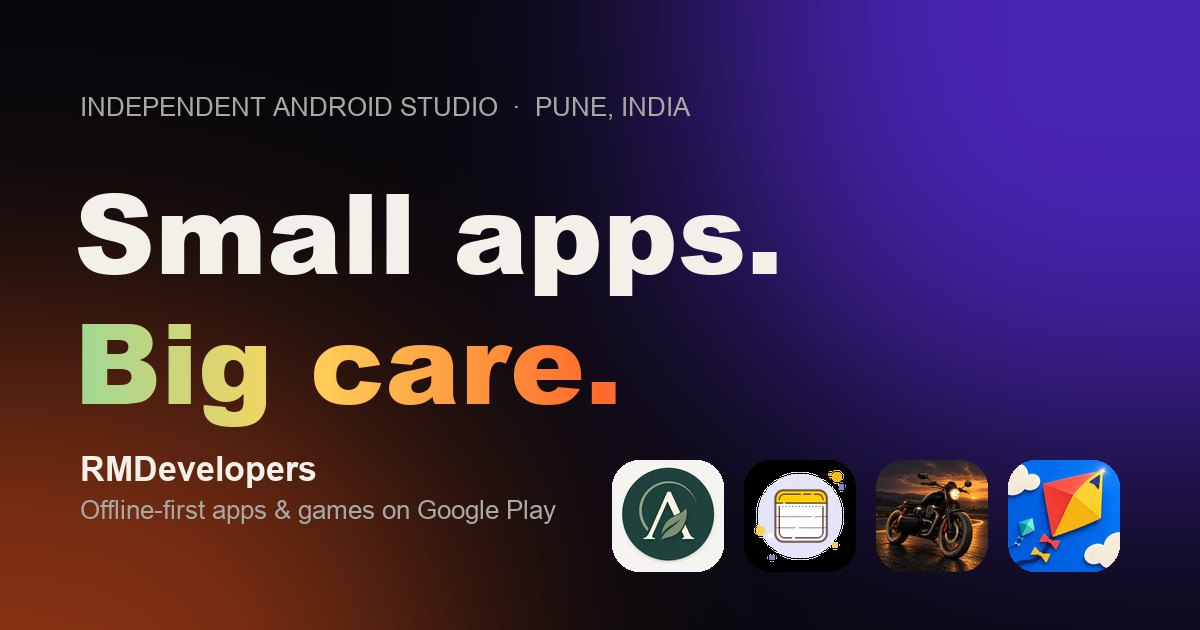
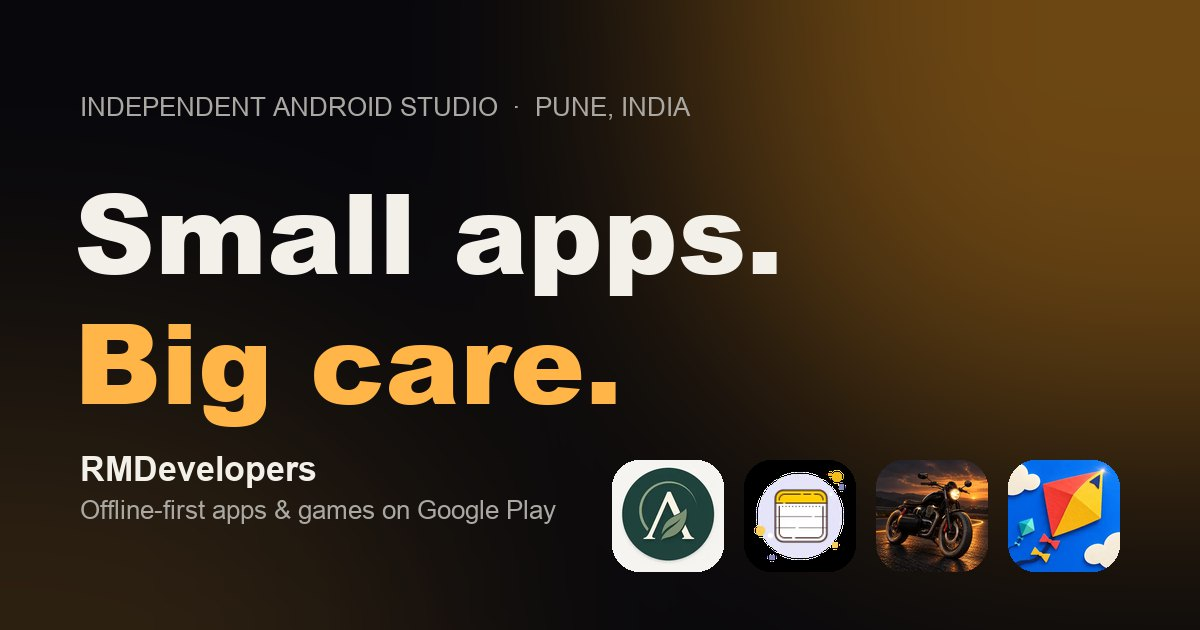
style(rmdevelopers): replace rainbow gradient with single amber accent

diff --git a/public/rmdevelopers/styles.css b/public/rmdevelopers/styles.css
@@ -9,8 +9,9 @@
   --faint: rgba(243, 240, 234, 0.38);
   --line: rgba(243, 240, 234, 0.12);
   --surface: rgba(255, 255, 255, 0.04);
-  --accent: #b9a8ff;
-  --brand: linear-gradient(92deg, #7fd8a9 0%, #ffd45a 30%, #ff6a2b 58%, #b06bff 80%, #3dc8ff 100%);
+  --accent: #ffb547;
+  /* single-hue sheen used for headline text and the progress bar */
+  --brand: linear-gradient(92deg, #ffb547 0%, #ffe0a3 50%, #ffb547 100%);
   --display: "Bricolage Grotesque", "Arial Black", system-ui, sans-serif;
   --sans: "Geist", system-ui, -apple-system, "Segoe UI", sans-serif;
   --mono: "JetBrains Mono", ui-monospace, monospace;
@@ -38,8 +39,8 @@ img { display: block; max-width: 100%; height: auto; }
 a { color: inherit; text-decoration: none; }
 h1, h2, h3 { margin: 0; font-family: var(--display); font-weight: 800; letter-spacing: -0.03em; line-height: 0.95; }
 p { margin: 0; }
-::selection { background: #ffd45a; color: #08080c; }
-:focus-visible { outline: 2px solid #ffd45a; outline-offset: 4px; border-radius: 6px; }
+::selection { background: var(--accent); color: #08080c; }
+:focus-visible { outline: 2px solid var(--accent); outline-offset: 4px; border-radius: 6px; }
 
 .sr-only { position: absolute; width: 1px; height: 1px; overflow: hidden; clip: rect(0 0 0 0); white-space: nowrap; }
 .skip { position: fixed; z-index: 1000; top: 12px; left: 12px; padding: 10px 16px; border-radius: 99px; background: var(--ink); color: var(--bg); transform: translateY(-200%); }
@@ -70,7 +71,7 @@ p { margin: 0; }
   transition: background-color 0.3s, color 0.3s, border-color 0.3s;
   will-change: transform;
 }
-.btn:hover { background: #ffd45a; }
+.btn:hover { background: var(--accent); }
 .btn--ghost { background: transparent; color: var(--ink); border-color: var(--line); }
 .btn--ghost:hover { background: var(--surface); border-color: var(--ink); }
 .btn--small { padding: 10px 16px; font-size: 14px; }
@@ -165,13 +166,13 @@ p { margin: 0; }
 }
 .hero__canvas { position: absolute; z-index: -1; inset: 0; width: 100%; height: 100%; }
 .hero__blob { position: absolute; z-index: -2; border-radius: 50%; filter: blur(90px); opacity: 0.55; animation: drift 18s ease-in-out infinite alternate; }
-.hero__blob--a { top: -10%; right: -10%; width: 55vw; height: 55vw; background: radial-gradient(circle, #6c3cff 0%, transparent 65%); }
-.hero__blob--b { bottom: -25%; left: -15%; width: 50vw; height: 50vw; background: radial-gradient(circle, #ff6a2b 0%, transparent 65%); opacity: 0.35; animation-delay: -9s; }
+.hero__blob--a { top: -10%; right: -10%; width: 55vw; height: 55vw; background: radial-gradient(circle, #8a5a12 0%, transparent 65%); opacity: 0.5; }
+.hero__blob--b { bottom: -25%; left: -15%; width: 50vw; height: 50vw; background: radial-gradient(circle, #3a2a14 0%, transparent 65%); opacity: 0.6; animation-delay: -9s; }
 @keyframes drift { to { transform: translate(-8vw, 6vh) scale(1.15); } }
 
 .hero__eyebrow { display: inline-flex; align-items: center; gap: 10px; margin-bottom: 28px; color: var(--muted); font: 600 13px/1 var(--mono); letter-spacing: 0.08em; text-transform: uppercase; }
-.hero__eyebrow i { width: 8px; height: 8px; border-radius: 50%; background: #7fd8a9; box-shadow: 0 0 0 0 rgba(127, 216, 169, 0.6); animation: pulse 2s infinite; }
-@keyframes pulse { 70% { box-shadow: 0 0 0 12px rgba(127, 216, 169, 0); } 100% { box-shadow: 0 0 0 0 rgba(127, 216, 169, 0); } }
+.hero__eyebrow i { width: 8px; height: 8px; border-radius: 50%; background: var(--accent); box-shadow: 0 0 0 0 rgba(255, 181, 71, 0.6); animation: pulse 2s infinite; }
+@keyframes pulse { 70% { box-shadow: 0 0 0 12px rgba(255, 181, 71, 0); } 100% { box-shadow: 0 0 0 0 rgba(255, 181, 71, 0); } }
 
 .hero__title { display: flex; flex-direction: column; font-size: clamp(56px, 13vw, 210px); line-height: 0.88; letter-spacing: -0.055em; }
 .hero__line { display: block; }
@@ -188,7 +189,7 @@ p { margin: 0; }
 .orbit-icon {
   position: absolute; width: 26%; pointer-events: auto;
   border-radius: 24%;
-  box-shadow: 0 30px 60px -20px var(--c), 0 0 0 1px rgba(255, 255, 255, 0.08);
+  box-shadow: 0 30px 60px -24px rgba(255, 181, 71, 0.45), 0 0 0 1px rgba(255, 255, 255, 0.08);
   animation: float 7s ease-in-out infinite;
 }
 .orbit-icon img { width: 100%; border-radius: inherit; }
@@ -218,7 +219,7 @@ p { margin: 0; }
 .marquee__row--rev .marquee__track { animation-direction: reverse; }
 .marquee__track span { font: 800 clamp(34px, 6vw, 84px)/1.05 var(--display); letter-spacing: -0.04em; white-space: nowrap; }
 .marquee__row--rev span { color: transparent; -webkit-text-stroke: 1.5px var(--faint); }
-.marquee__track b { color: #ffd45a; font-size: clamp(20px, 3vw, 40px); }
+.marquee__track b { color: var(--accent); font-size: clamp(20px, 3vw, 40px); }
 @keyframes marquee { to { transform: translateX(-50%); } }
 
 /* ---------- stats ---------- */
@@ -339,7 +340,7 @@ p { margin: 0; }
 .faq summary i { position: relative; flex: none; width: 32px; height: 32px; border: 1px solid var(--line); border-radius: 50%; transition: transform 0.5s var(--ease), background-color 0.3s; }
 .faq summary i::before, .faq summary i::after { content: ""; position: absolute; top: 50%; left: 50%; width: 12px; height: 1.5px; background: currentColor; transform: translate(-50%, -50%); }
 .faq summary i::after { transform: translate(-50%, -50%) rotate(90deg); }
-.faq details[open] summary i { transform: rotate(135deg); background: #ffd45a; color: #0b0b10; }
+.faq details[open] summary i { transform: rotate(135deg); background: var(--accent); color: #0b0b10; }
 .faq__answer { overflow: hidden; }
 .faq__answer p { max-width: 640px; padding-bottom: 26px; color: var(--muted); }
 @media (max-width: 860px) { .faq { grid-template-columns: 1fr; } }

diff --git a/public/rmdevelopers/main.js b/public/rmdevelopers/main.js
@@ -114,7 +114,7 @@
     const hero = $(".hero");
     const canvas = $(".hero__canvas");
     const ctx = canvas.getContext("2d");
-    const colors = ["#7fd8a9", "#ffd45a", "#ff6a2b", "#b06bff", "#3dc8ff"];
+    const colors = ["#ffb547", "#ffb547", "#f3f0ea"];
     const mouse = { x: -9999, y: -9999 };
     let dots = [];
     let w = 0, h = 0, running = true;
